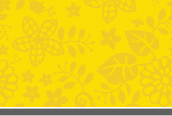
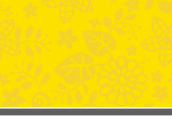
Header background and signup button.

diff --git a/public/stylesheets/screen.css b/public/stylesheets/screen.css
@@ -109,7 +109,7 @@ img.polaroid {
 /* =============================================== */
 
 #hd{
-background:url(/plugin_assets/community_engine/images/bg_navbar.jpg) no-repeat;
+background:url(/plugin_assets/community_engine/images/bg_navbar.png) no-repeat;
 height:129px;
 position:relative;
 }
